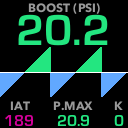
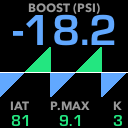
Changing layout to be more flexible with changing numbers.

diff --git a/jason-write.cc b/jason-write.cc
@@ -16,86 +16,144 @@
 #else
 #endif
 
+const float BOOST_PSI_MAX = 21.0;
+const int IAT_HOT_THRESHOLD = 150;
+const int IAT_COLD_THRESHOLD = 32;
+const int KNOCK_PROBLEM_THRESHOLD = 5;
+
+const std::string BOOST_LABEL = "BOOST (PSI)";
+const std::string IAT_LABEL = "IAT";
+const std::string PMAX_LABEL = "P.MAX";
+const std::string KNOCK_LABEL = "K";
+const int BOOST_X_CENTER = 64;
+const int IAT_X_CENTER = 20;
+const int PMAX_X_CENTER = 70;
+const int KNOCK_X_CENTER = 118;
+
+char boost_psi_current_formatted [7];
+char boost_psi_max_formatted [6];
+char iat_formatted [5];
+char knock_formatted [4];
+
+Cairo::TextExtents extents;
+const Cairo::RefPtr<Cairo::SolidPattern> red_color = Cairo::SolidPattern::create_rgb(0.83, 0.0, 0.6);
+const Cairo::RefPtr<Cairo::SolidPattern> green_color = Cairo::SolidPattern::create_rgb(0.14, 0.9, 0.5);
+const Cairo::RefPtr<Cairo::SolidPattern> blue_color = Cairo::SolidPattern::create_rgb(0.38, 0.66, 1.0);
+const Cairo::RefPtr<Cairo::SolidPattern> white_color = Cairo::SolidPattern::create_rgb(1.0, 1.0, 1.0);
+const Cairo::RefPtr<Cairo::SolidPattern> gray_color = Cairo::SolidPattern::create_rgb(0.6, 0.6, 0.6);
+
+const Cairo::RefPtr<Cairo::ToyFontFace> number_font =
+  Cairo::ToyFontFace::create("Eurostile",
+                              Cairo::FONT_SLANT_NORMAL,
+                              Cairo::FONT_WEIGHT_BOLD);
+const Cairo::RefPtr<Cairo::ToyFontFace> label_font =
+  Cairo::ToyFontFace::create("Avenir Next",
+                              Cairo::FONT_SLANT_NORMAL,
+                              Cairo::FONT_WEIGHT_BOLD);
+
 void draw_gauge_background(Cairo::RefPtr<Cairo::Context> cr) {
   cr->save();
   cr->paint(); // fill image with the color
 
   // Draw labels
-  cr->set_source_rgb(0.6, 0.6, 0.6);
-  Cairo::RefPtr<Cairo::ToyFontFace> label_font =
-    Cairo::ToyFontFace::create("Avenir Next",
-                               Cairo::FONT_SLANT_NORMAL,
-                               Cairo::FONT_WEIGHT_BOLD);
+  cr->set_source(gray_color);
   cr->set_font_face(label_font);
   cr->set_font_size(12.0);
 
   // BOOST label
-  cr->move_to(28, 12);
-  cr->show_text("BOOST (PSI)");
+  cr->get_text_extents(BOOST_LABEL, extents);
+  cr->move_to(64-(extents.width/2 + extents.x_bearing), 12);
+  cr->show_text(BOOST_LABEL);
 
   // IAT label
-  cr->move_to(10, 110);
-  cr->show_text("IAT");
+  cr->get_text_extents(IAT_LABEL, extents);
+  cr->move_to(20-(extents.width/2 + extents.x_bearing), 110);
+  cr->show_text(IAT_LABEL);
 
   // P.MAX label
-  cr->move_to(53, 110);
-  cr->show_text("P.MAX");
+  cr->get_text_extents(PMAX_LABEL, extents);
+  cr->move_to(70-(extents.width/2 + extents.x_bearing), 110);
+  cr->show_text(PMAX_LABEL);
 
   // Knock label
-  cr->move_to(114, 110);
-  cr->show_text("K");
+  cr->get_text_extents(KNOCK_LABEL, extents);
+  cr->move_to(118-(extents.width/2 + extents.x_bearing), 110);
+  cr->show_text(KNOCK_LABEL);
+
   cr->restore();
 }
 
-void draw_numbers(Cairo::RefPtr<Cairo::Context> cr) {
+void draw_numbers(Cairo::RefPtr<Cairo::Context> cr, float boost_psi_current, float boost_psi_max, int iat, int knock) {
   cr->save();
 
-  cr->set_source_rgb(1.0, 1.0, 1.0);
-  Cairo::RefPtr<Cairo::ToyFontFace> number_font =
-    Cairo::ToyFontFace::create("Eurostile",
-                               Cairo::FONT_SLANT_NORMAL,
-                               Cairo::FONT_WEIGHT_BOLD);
+  cr->set_source(white_color);
   cr->set_font_face(number_font);
 
   // Boost
-  cr->set_source_rgb(0.14, 0.9, 0.5);
+  snprintf(boost_psi_current_formatted, 7, "% 3.1f", boost_psi_current);
+  if (boost_psi_current < 0)
+    cr->set_source(blue_color);
+  else if (boost_psi_current < BOOST_PSI_MAX)
+    cr->set_source(green_color);
+  else
+    cr->set_source(red_color);
   cr->set_font_size(45.0);
-  cr->move_to(16, 45);
-  cr->show_text("20.2");
+  cr->get_text_extents(boost_psi_current_formatted, extents);
+  cr->move_to(BOOST_X_CENTER-(extents.width/2 + extents.x_bearing), 45);
+  cr->show_text(boost_psi_current_formatted);
 
   // IAT
-  cr->set_source_rgb(0.83, 0.0, 0.6);
+  snprintf(iat_formatted, 5, "% 3d", iat);
+  if (iat > IAT_HOT_THRESHOLD)
+    cr->set_source(red_color);
+  else if (iat < IAT_COLD_THRESHOLD)
+    cr->set_source(blue_color);
+  else
+    cr->set_source(green_color);
   cr->set_font_size(16.0);
-  cr->move_to(4, 126);
-  cr->show_text("189");
+  cr->get_text_extents(iat_formatted, extents);
+  cr->move_to(IAT_X_CENTER-(extents.width/2 + extents.x_bearing), 126);
+  cr->show_text(iat_formatted);
 
   // P. MAX
-  cr->set_source_rgb(0.14, 0.9, 0.5);
-  cr->move_to(57, 126);
-  cr->show_text("20.9");
+  snprintf(boost_psi_max_formatted, 6, "% 2.1f", boost_psi_max);
+  if (boost_psi_max < 0)
+    cr->set_source(blue_color);
+  else if (boost_psi_max < BOOST_PSI_MAX)
+    cr->set_source(green_color);
+  else
+    cr->set_source(red_color);
+  cr->get_text_extents(boost_psi_max_formatted, extents);
+  cr->move_to(PMAX_X_CENTER-(extents.width/2 + extents.x_bearing), 126);
+  cr->show_text(boost_psi_max_formatted);
 
   // Knock
-  cr->set_source_rgb(0.14, 0.9, 0.5);
-  cr->move_to(114, 126);
-  cr->show_text("0");
+  snprintf(knock_formatted, 4, "%2d", knock);
+  if (knock > KNOCK_PROBLEM_THRESHOLD)
+    cr->set_source(red_color);
+  else
+    cr->set_source(green_color);
+  cr->get_text_extents(knock_formatted, extents);
+  cr->move_to(KNOCK_X_CENTER-(extents.width/2 + extents.x_bearing), 126);
+  cr->show_text(knock_formatted);
 
   cr->restore();
 }
 
-void draw_graph(Cairo::RefPtr<Cairo::Context> cr) {
+void draw_graph(Cairo::RefPtr<Cairo::Context> cr, float boost_psi_current) {
   cr->save();
 
   for (int i = 0; i < 128; i = i+1) {
     if (i % 51 <= 25) {
-      cr->set_source_rgb(0.38, 0.66, 1.0);
+      cr->set_source(blue_color);
     } else {
-      cr->set_source_rgb(0.14, 0.9, 0.5);
+      cr->set_source(green_color);
     }
     cr->move_to(i, 72);
     cr->line_to(i, 72 + 25 - (i % 51));
     cr->stroke();
   }
-  cr->set_source_rgb(1.0, 1.0, 1.0);
+  cr->set_source(white_color);
   cr->move_to(0, 73);
   cr->line_to(128, 73);
   cr->set_line_width(1.0);
@@ -104,14 +162,14 @@ void draw_graph(Cairo::RefPtr<Cairo::Context> cr) {
   cr->restore();
 }
 
-void render(Cairo::RefPtr<Cairo::ImageSurface> surface) {
+void render(Cairo::RefPtr<Cairo::ImageSurface> surface, float boost_psi_current, float boost_psi_max, int iat, int knock) {
   Cairo::RefPtr<Cairo::Context> cr = Cairo::Context::create(surface);
 
   cr->save(); // save the state of the context
 
   draw_gauge_background(cr);
-  draw_numbers(cr);
-  draw_graph(cr);
+  draw_numbers(cr, boost_psi_current, boost_psi_max, iat, knock);
+  draw_graph(cr, boost_psi_current);
 
 }
 
@@ -151,7 +209,7 @@ int main()
 
             Cairo::RefPtr<Cairo::ImageSurface> surface = Cairo::ImageSurface::create(buffer, Cairo::FORMAT_RGB16_565, 128, 128, Cairo::ImageSurface::format_stride_for_width(Cairo::FORMAT_RGB16_565, screen_info.xres_virtual));
 
-            render(surface);
+            render(surface, 19.7, 20.1, 135, 0);
 
             r = 0;   /* Indicate success */
         }
@@ -180,9 +238,8 @@ int main()
 
   return r;
 #else
-    Cairo::RefPtr<Cairo::ImageSurface> surface =
-        Cairo::ImageSurface::create(Cairo::FORMAT_ARGB32, 128, 128);
-    render(surface);
+    Cairo::RefPtr<Cairo::ImageSurface> surface = Cairo::ImageSurface::create(Cairo::FORMAT_ARGB32, 128, 128);
+    render(surface, -18.2, 9.1, 81, 3);
 
 #ifdef CAIRO_HAS_PNG_FUNCTIONS
       std::string filename = "image.png";
